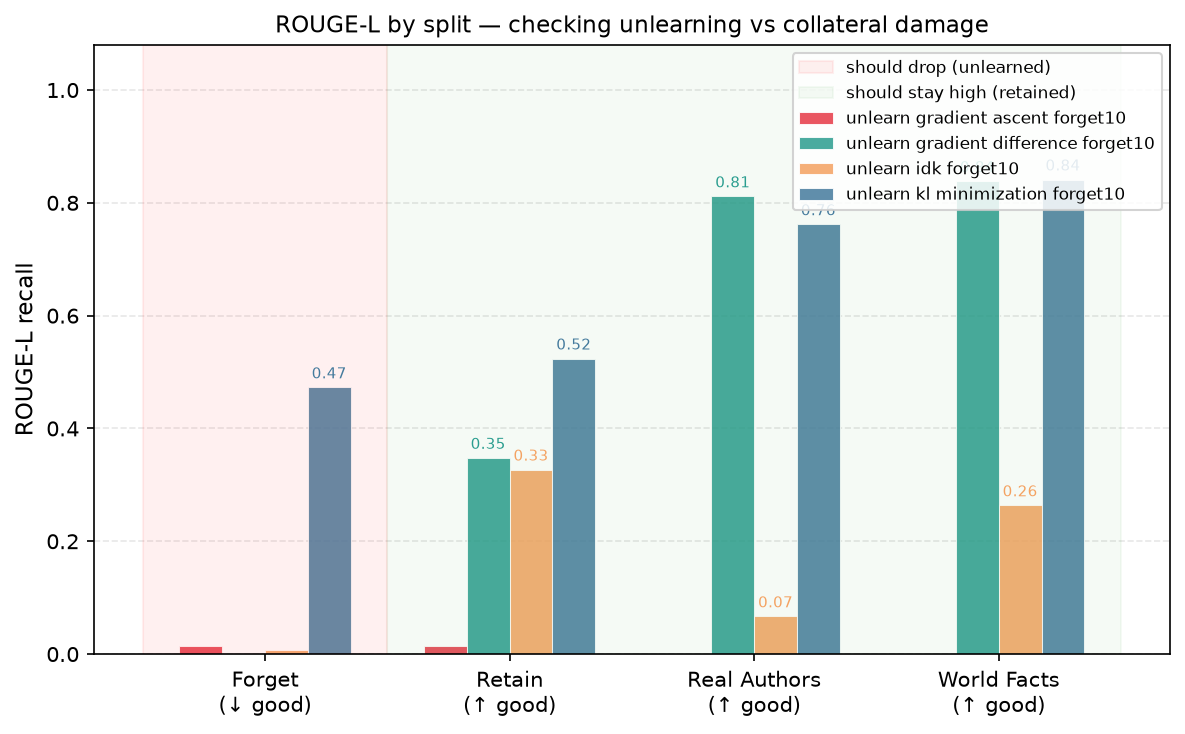
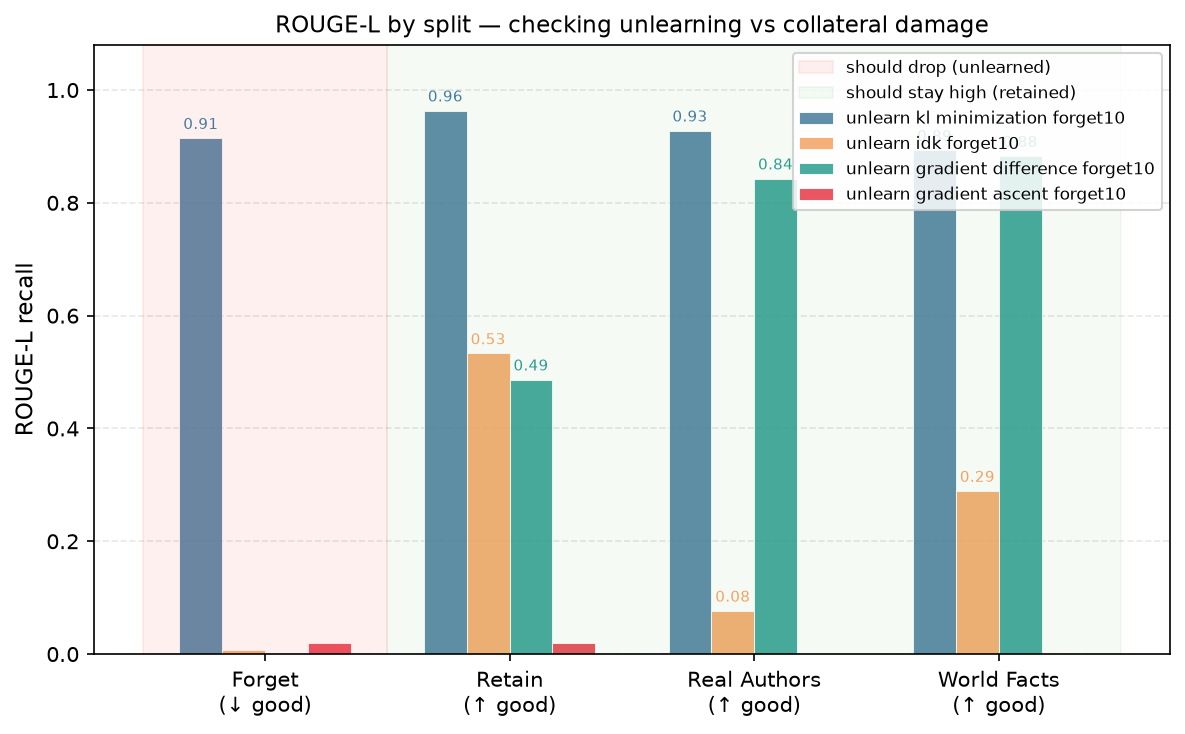
add LoRA and relearn

diff --git a/scripts/tofu_forget_rouge.py b/scripts/tofu_forget_rouge.py
@@ -1,0 +1,67 @@
+"""Forget-set ROUGE-L recall of one or more checkpoints (the relearning-probe metric).
+
+High forget-set ROUGE = the model still reproduces the forget answers (knows them).
+So the recovery signal is: forget ROUGE of the UNLEARNED model (low-ish) vs after
+relearning (rises back toward the learned model's ~0.9 => the knowledge wasn't erased).
+
+    python scripts/tofu_forget_rouge.py \
+        --checkpoints experiments/tofu_unlearn_gradient_difference_forget10_fullft \
+                      experiments/relearn_tofu_unlearn_gradient_difference_forget10_fullft_ep2
+
+Plain inference (no DeepSpeed). Writes results/relearn_forget_rouge.json.
+"""
+import argparse
+import json
+import sys
+from pathlib import Path
+
+sys.path.append(str(Path(__file__).resolve().parents[1]))
+
+import torch
+from transformers import AutoModelForCausalLM, AutoTokenizer
+
+from src.data.load_tofu import load_qa
+from src.evaluation.tofu_evaluate import _generate
+from src.evaluation.tofu_metrics import rouge_score_recall
+from src.utils.logging_utils import load_config, get_logger, ensure_dir
+
+logger = get_logger("tofu_forget_rouge")
+
+
+def _forget_rouge(ckpt, tok_name, records, max_new, n):
+    tok = AutoTokenizer.from_pretrained(tok_name)
+    if tok.pad_token is None:
+        tok.pad_token = tok.eos_token
+    model = AutoModelForCausalLM.from_pretrained(
+        ckpt, torch_dtype=torch.bfloat16, device_map="auto").eval()
+    model.config.pad_token_id = tok.pad_token_id
+    scores = [rouge_score_recall(_generate(model, tok, r["question"], max_new), r["answer"])
+              for r in records[:n]]
+    del model
+    torch.cuda.empty_cache()
+    return sum(scores) / len(scores) if scores else 0.0
+
+
+def main():
+    ap = argparse.ArgumentParser()
+    ap.add_argument("--checkpoints", nargs="+", required=True)
+    ap.add_argument("--n", type=int, default=50, help="forget QA to evaluate")
+    args = ap.parse_args()
+
+    cfg = load_config()
+    forget = load_qa(cfg["tofu"]["forget_level"], cfg["tofu"]["cache_dir"])
+    max_new = cfg["evaluation"]["max_new_tokens"]
+
+    out = ensure_dir("results") / "relearn_forget_rouge.json"
+    data = json.load(open(out)) if out.exists() else {}
+    for ckpt in args.checkpoints:
+        name = Path(ckpt).name
+        r = _forget_rouge(ckpt, cfg["model"]["name"], forget, max_new, args.n)
+        data[name] = r
+        logger.info(">>> %-60s forget-set ROUGE = %.4f", name, r)
+    json.dump(data, open(out, "w"), indent=2)
+    logger.info("-> %s", out)
+
+
+if __name__ == "__main__":
+    main()

diff --git a/scripts/tofu_relearn.py b/scripts/tofu_relearn.py
@@ -1,0 +1,59 @@
+"""Relearning-robustness probe (recovery axis 1; Hu et al. ICLR 2025).
+
+Re-fine-tune an UNLEARNED checkpoint on the forget set. If the forgotten knowledge
+returns quickly, the unlearning only SUPPRESSED it (never erased) — the project's
+central "obfuscation vs deletion" thesis. This script only RELEARNS and saves the
+model; measure how much knowledge came back with scripts/tofu_forget_rouge.py.
+
+    deepspeed --num_gpus=1 scripts/tofu_relearn.py \
+        --checkpoint experiments/tofu_unlearn_gradient_difference_forget10_fullft --epochs 2
+
+Run at a few --epochs (1,2,4,...) to trace the recovery curve.
+"""
+import argparse
+import sys
+from pathlib import Path
+
+sys.path.append(str(Path(__file__).resolve().parents[1]))
+
+import torch
+from transformers import AutoModelForCausalLM, AutoTokenizer
+
+from src.data.load_tofu import load_qa
+from src.training.finetune_tofu import finetune_tofu
+from src.utils.seed import set_seed
+from src.utils.logging_utils import load_config, get_logger
+
+logger = get_logger("tofu_relearn")
+
+
+def main():
+    ap = argparse.ArgumentParser()
+    ap.add_argument("--checkpoint", required=True, help="the unlearned model to relearn")
+    ap.add_argument("--epochs", type=int, default=2, help="relearn epochs (keep small)")
+    ap.add_argument("--local_rank", type=int, default=-1)  # deepspeed launcher
+    args = ap.parse_args()
+
+    cfg = load_config()
+    set_seed(cfg["seed"])
+    forget = load_qa(cfg["tofu"]["forget_level"], cfg["tofu"]["cache_dir"])
+
+    tok = AutoTokenizer.from_pretrained(cfg["model"]["name"])
+    if tok.pad_token is None:
+        tok.pad_token = tok.eos_token
+    # device_map=None: DeepSpeed places the model per-rank (see load_model.py).
+    model = AutoModelForCausalLM.from_pretrained(args.checkpoint, torch_dtype=torch.bfloat16)
+    model.config.pad_token_id = tok.pad_token_id
+
+    # Relearn = fine-tune the unlearned model on the forget set, reusing LEARN's exact
+    # DeepSpeed fp32-master setup (so recovery isn't bottlenecked by bf16 rounding).
+    # Override the epoch count (fewer than the 5-epoch LEARN).
+    cfg = {**cfg, "tofu": {**cfg["tofu"], "finetune_epochs": args.epochs}}
+    name = Path(args.checkpoint).name
+    run_name = f"relearn_{name}_ep{args.epochs}"
+    out = finetune_tofu(model, tok, forget, cfg, run_name)
+    logger.info("Relearned %s for %d epochs -> %s", name, args.epochs, out)
+
+
+if __name__ == "__main__":
+    main()

diff --git a/src/training/unlearn.py b/src/training/unlearn.py
@@ -101,11 +101,25 @@ class ForgetTrainer(Trainer):
 
 def unlearn(model, tokenizer, forget: List[Dict], retain: List[Dict],
             cfg: Dict, method: str, run_name: str, checkpoint: str = None,
-            oracle_model=None):
-    """Run an unlearning algorithm via HF Trainer + DeepSpeed. Returns checkpoint dir."""
+            oracle_model=None, use_lora: bool = False):
+    """Run an unlearning algorithm via HF Trainer. Returns checkpoint dir.
+
+    use_lora=False -> FULL fine-tuning (DeepSpeed ZeRO-3 + fp32 master, like LEARN).
+    use_lora=True  -> LoRA: only small adapters are trained, so it fits without
+        DeepSpeed and the fp32-master issue doesn't apply (adapters train fine in
+        bf16). This is the LoRA-vs-Full-FT strategy axis of the project.
+    """
     t, u = cfg["training"], cfg["tofu"]
     max_len = cfg["model"]["max_seq_length"]
     pad_id = tokenizer.pad_token_id
+
+    if use_lora:
+        from peft import LoraConfig, get_peft_model
+        lc = t["lora"]
+        model = get_peft_model(model, LoraConfig(
+            r=lc["r"], lora_alpha=lc["alpha"], lora_dropout=lc["dropout"],
+            target_modules=lc["target_modules"], task_type="CAUSAL_LM"))
+        model.print_trainable_parameters()
 
     # For IDK, replace forget answers with "I don't know"-style responses.
     forget_records = forget
@@ -127,9 +141,9 @@ def unlearn(model, tokenizer, forget: List[Dict], retain: List[Dict],
         logging_steps=t["logging_steps"],
         save_strategy="no",
         report_to="none",
-        # Same fp32-master-weight setup as LEARN (config/ds_config.json), matching
-        # the official forget.py (deepspeed + paged_adamw_32bit + bf16).
-        deepspeed="config/ds_config.json",
+        # Full FT needs DeepSpeed for fp32 master weights (like LEARN / the repo).
+        # LoRA trains tiny adapters -> fits on one GPU without DeepSpeed.
+        deepspeed=None if use_lora else "config/ds_config.json",
         bf16=True,
         gradient_checkpointing=True,
         gradient_checkpointing_kwargs={"use_reentrant": False},
@@ -144,9 +158,16 @@ def unlearn(model, tokenizer, forget: List[Dict], retain: List[Dict],
         data_collator=make_collator(pad_id),
         method=method, oracle_model=oracle_model,
     )
-    logger.info("UNLEARN (%s) via DeepSpeed -> %s", method, args.output_dir)
+    logger.info("UNLEARN (%s, lora=%s) -> %s", method, use_lora, args.output_dir)
     trainer.train()
-    trainer.save_model(args.output_dir)
+    if use_lora:
+        # Merge the LoRA adapters into the base weights and save a STANDARD full
+        # model, so downstream (relearn, eval) loads it like any other checkpoint
+        # and it's directly comparable to the full-FT unlearned model.
+        merged = trainer.model.merge_and_unload()
+        merged.save_pretrained(args.output_dir)
+    else:
+        trainer.save_model(args.output_dir)
     tokenizer.save_pretrained(args.output_dir)
     logger.info("UNLEARN done (%s) -> %s", method, args.output_dir)
     return args.output_dir

diff --git a/scripts/tofu_02_unlearn.py b/scripts/tofu_02_unlearn.py
@@ -31,6 +31,8 @@ def main():
     ap.add_argument("--method", required=True,
                     choices=["gradient_ascent", "gradient_difference",
                              "kl_minimization", "idk"])
+    ap.add_argument("--lora", action="store_true",
+                    help="LoRA unlearning instead of full FT (the strategy axis)")
     # The `deepspeed` launcher passes --local_rank; absorb it (HF reads env vars).
     ap.add_argument("--local_rank", type=int, default=-1)
     args = ap.parse_args()
@@ -62,9 +64,10 @@ def main():
         for p in oracle_model.parameters():
             p.requires_grad_(False)
 
-    run_name = f"tofu_unlearn_{args.method}_{forget_level}"
+    strategy = "lora" if args.lora else "fullft"
+    run_name = f"tofu_unlearn_{args.method}_{forget_level}_{strategy}"
     out = unlearn(model, tokenizer, forget, retain, cfg, args.method, run_name,
-                  checkpoint=args.checkpoint, oracle_model=oracle_model)
+                  checkpoint=args.checkpoint, oracle_model=oracle_model, use_lora=args.lora)
     logger.info("Unlearn complete -> %s", out)
 
 

diff --git a/results/comparison.md b/results/comparison.md
@@ -5,10 +5,10 @@ readable Fig-6 anchor + stated trend. The match is the *pattern*, not exact digi
 
 | Model | Model Utility (ours) | Model Utility (paper) | Forget Quality p (ours) | log10 p (ours) | Forget Quality (paper) |
 |---|---|---|---|---|---|
-| reference | 0.657 | ~0.55 (Retain star) | — | — | — (reference) |
+| reference | 0.723 | ~0.55 (Retain star) | — | — | — (reference) |
 | gradient_ascent | 0.000 | -> 0 (destroyed) | 9.07e-08 | -7.0 | < 0.05 (log p ~ -20) |
-| gradient_difference | 0.629 | preserved (higher) | 6.53e-167 | -166.2 | < 0.05 |
-| idk | 0.282 | preserved (partial) | 1.12e-19 | -19.0 | < 0.05 |
-| kl_minimization | 0.661 | preserved (higher) | 8.12e-27 | -26.1 | < 0.05 |
+| gradient_difference | 0.673 | preserved (higher) | 6.53e-167 | -166.2 | < 0.05 |
+| idk | 0.316 | preserved (partial) | 1.12e-19 | -19.0 | < 0.05 |
+| kl_minimization | 0.723 | preserved (higher) | 8.12e-27 | -26.1 | < 0.05 |
 
 **Reading:** the reference (retain) model has healthy utility (~0.66; paper ~0.55). `gradient_ascent` collapses utility to 0. `gradient_difference` / `kl_minimization` preserve utility (~0.63 / ~0.66) but forget quality is ~0 (they barely forget). No method reaches BOTH high utility and high forget quality — the TOFU trade-off (top-right of Fig 6 stays empty).